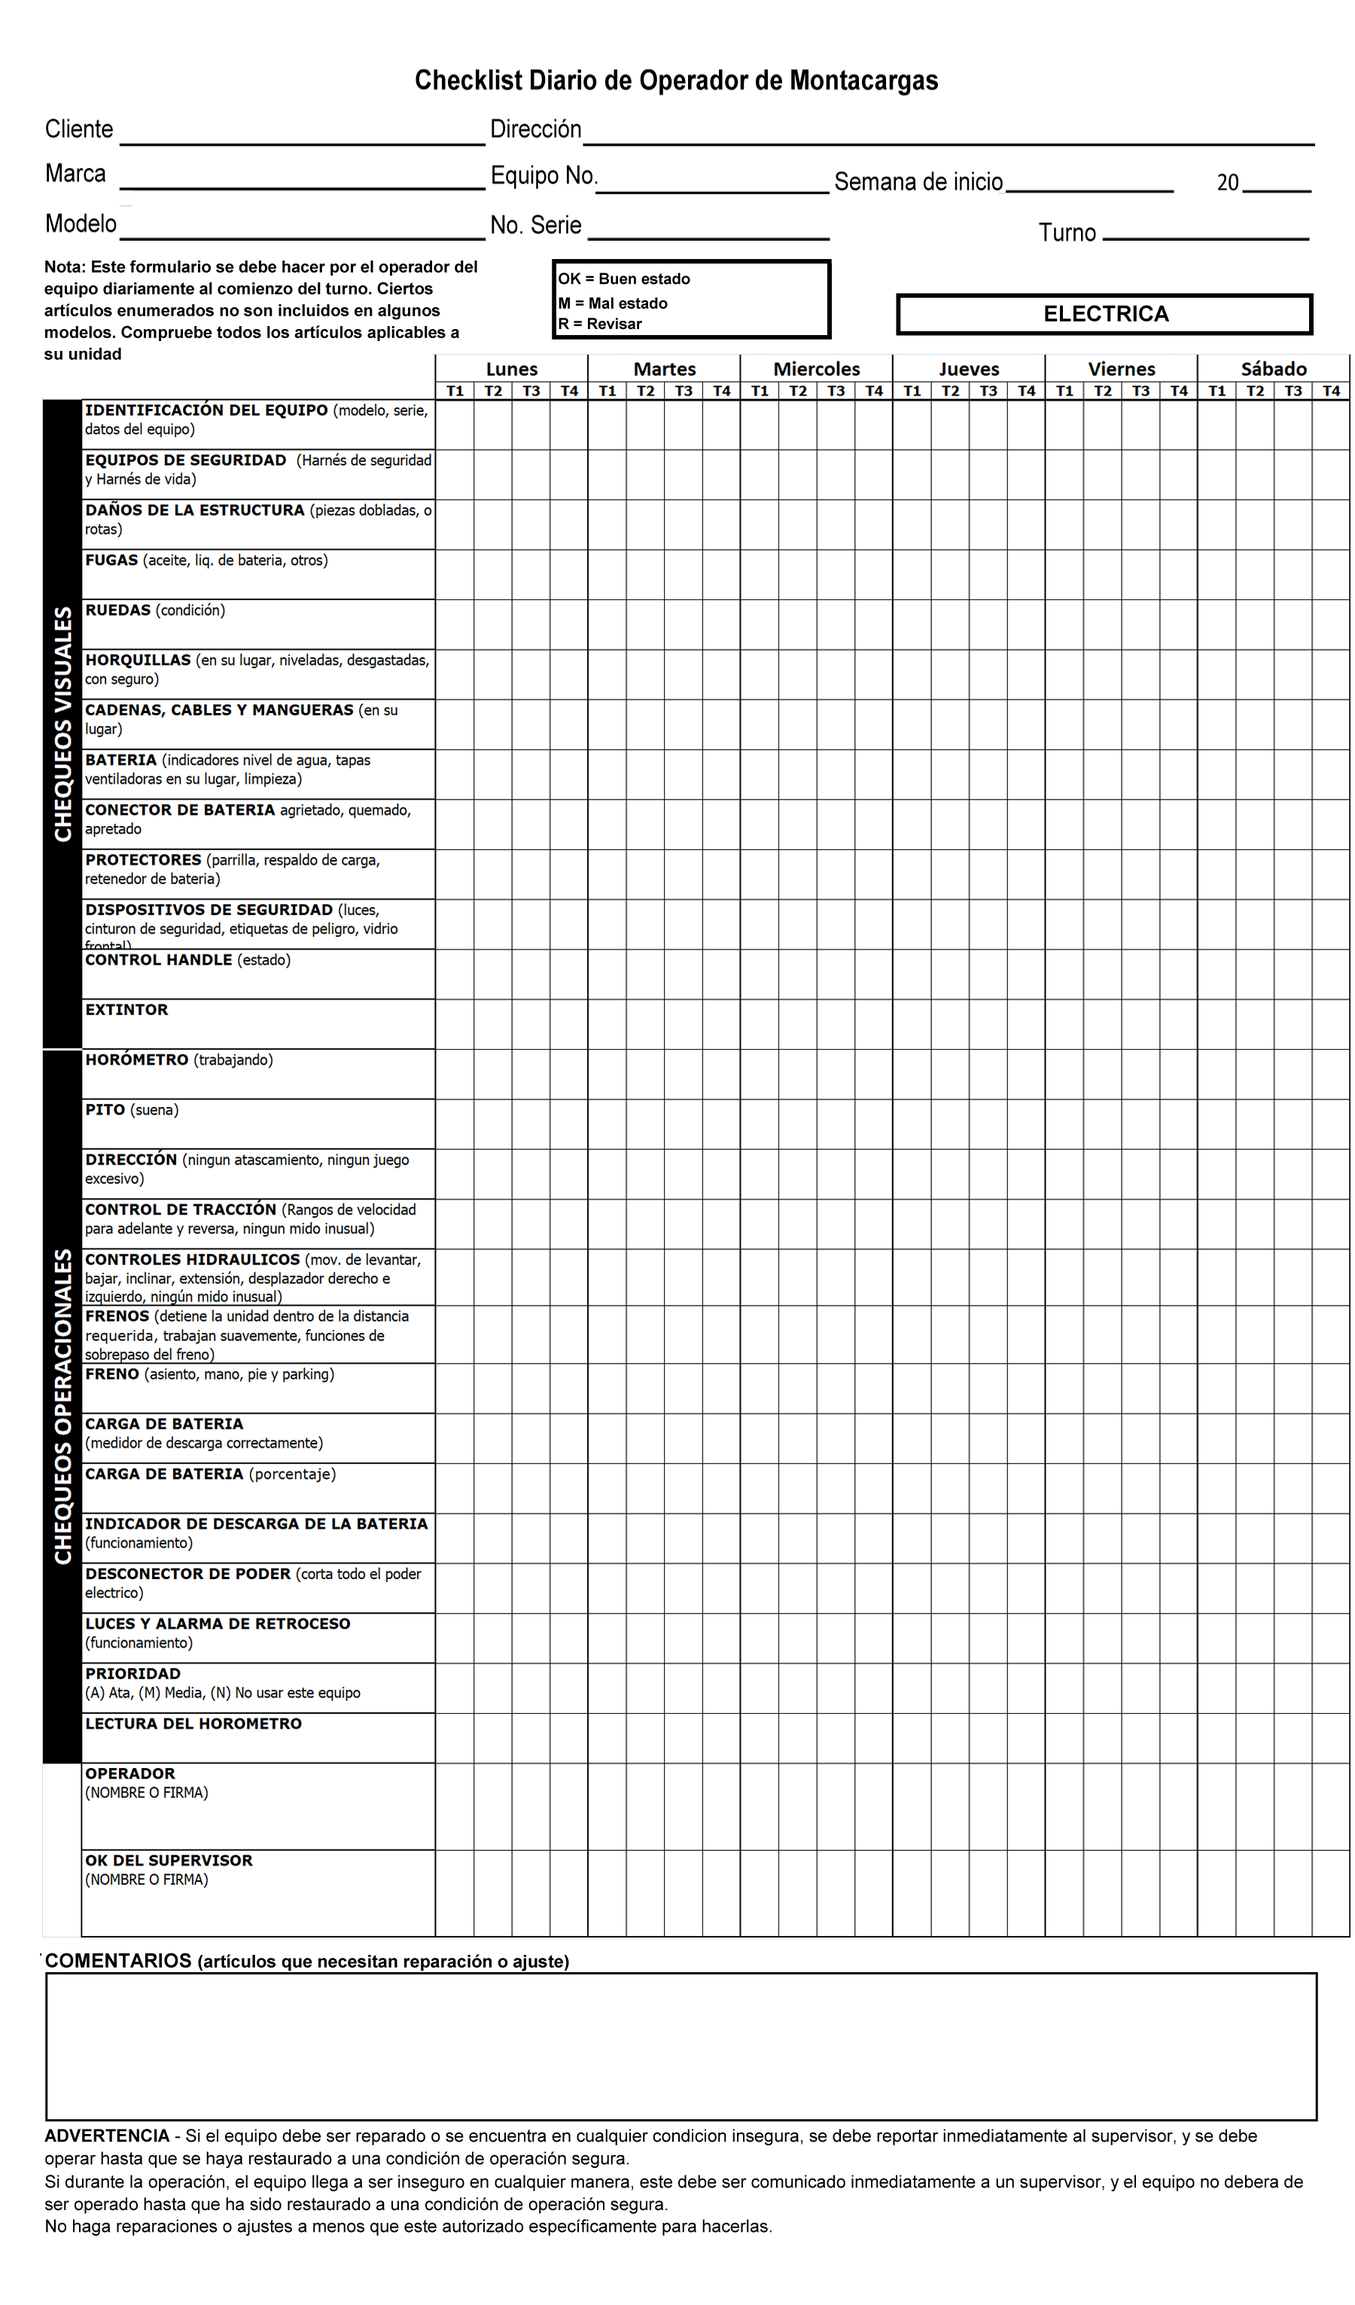
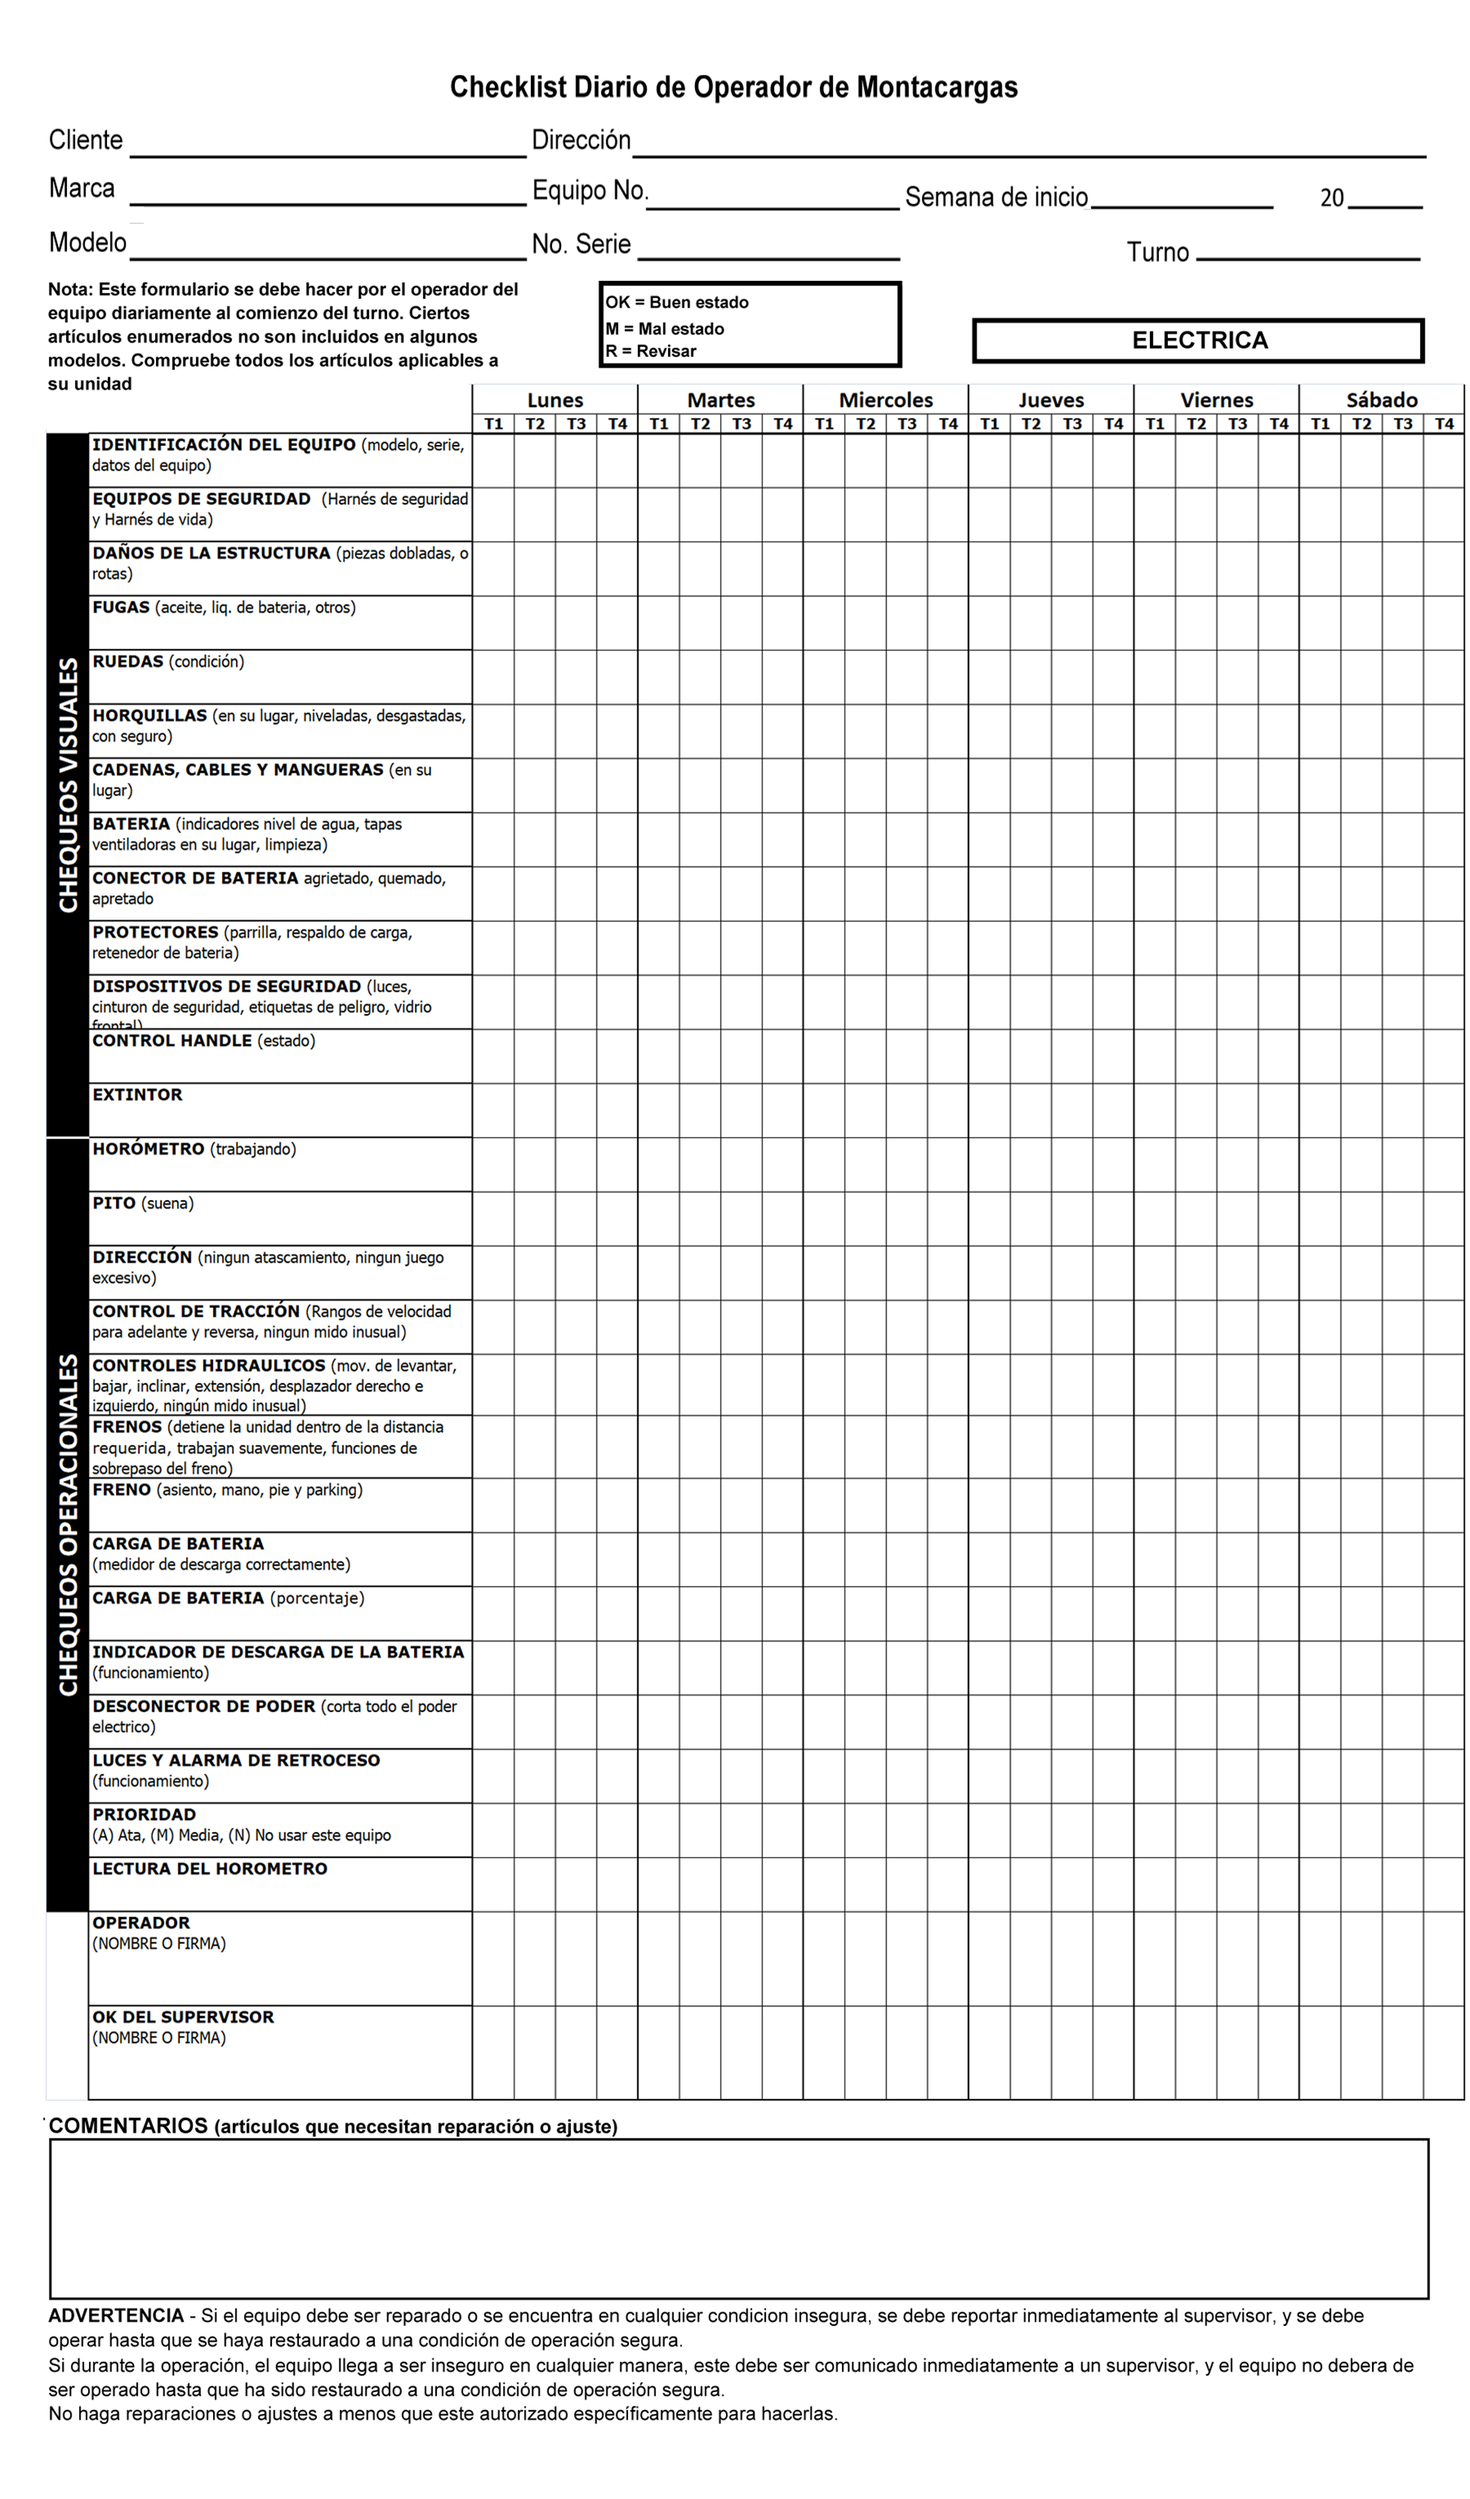
reporte DC

diff --git a/app/FormularioRegistro.php b/app/FormularioRegistro.php
@@ -577,7 +577,11 @@ class FormularioRegistro extends BaseModel
         $pdf->SetXY($x-12, $y-10);
         $pdf->SetLineStyle(['width'=>0,'color'=>[255,255,255]]);
         $pdf->SetLineWidth(0);
-        $pdf->Image(public_path('images/dce6-a.png'),  1, 1, 220, 340, '', '', 'T', false, 300, '', false, false, 1, false, false, false);
+        $pdf->setPrintHeader(false);
+        $pdf->SetPrintFooter(false);
+        $pdf->SetMargins(0, 0, 0);
+        $pdf->SetAutoPageBreak(false, 0);
+        $pdf->Image(public_path('images/dce6-a.png'),  1, 1, 212, 378, '', '', 'T', false, 300, '', false, false, 1, false, false, false);
         $name = 'daily_check-'.$formularioRegistro->id.'.pdf';
         $path = storage_path('app/public/pdf/'.$name);
 
@@ -585,7 +589,7 @@ class FormularioRegistro extends BaseModel
         $pdf->SetTextColor(50, 50, 50);
 
         $x = 20;
-        $y = 15;
+        $y = 19;
         $pdf->SetXY($x, $y);
         $pdf->Cell(55, 6, $formularioRegistro->equipo()->cliente->nombre, 0, 0, 'L');
         $x = $pdf->GetX()+17;
@@ -623,34 +627,34 @@ class FormularioRegistro extends BaseModel
            
         'identificacion'=>54,
         'seguridad'=>62,
-        'danos_estructura'=>68,
-        'fugas'=>76,
-        'ruedas'=>82,
-        'horquillas'=>90,
-        'cadenas_cables_mangueras'=>98,
-        'bateria'=>105,
-        'conector_bateria'=>112,
-        'protectores'=>119,
-        'dispositivos_seguridad'=>126,
-        'control_handle'=>133,
-        'extintor'=>141,
-        'horometro'=>148,
-        'pito'=>156,
-        'direccion'=>162,
-        'control_traccion'=>170,
-        'control_hidraulicos'=>178,
-        'frenos'=>184,
-        'freno'=>192,
-        'carga_bateria'=>200,
-        'nivel_carga_bateria'=>208,
-        'pct_carga_bateria'=>206,
-        'indicador_descarga_bateria'=>212,
-        'desconector_poder'=>220,
-        'luces_alarma_retroceso'=>226,
-        'prioridad'=>234,
-        'lectura_horometro'=>258,
-        'operador'=>270,
-        'ok_supervisor'=>282);
+        'danos_estructura'=>70,
+        'fugas'=>80,
+        'ruedas'=>88,
+        'horquillas'=>96,
+        'cadenas_cables_mangueras'=>104,
+        'bateria'=>112,
+        'conector_bateria'=>120,
+        'protectores'=>128,
+        'dispositivos_seguridad'=>136,
+        'control_handle'=>144,
+        'extintor'=>152,
+        'horometro'=>160,
+        'pito'=>168,
+        'direccion'=>176,
+        'control_traccion'=>186,
+        'control_hidraulicos'=>196,
+        'frenos'=>204,
+        'freno'=>212,
+        'carga_bateria'=>220,
+        'nivel_carga_bateria'=>224,
+        'pct_carga_bateria'=>230,
+        'indicador_descarga_bateria'=>238,
+        'desconector_poder'=>246,
+        'luces_alarma_retroceso'=>254,
+        'prioridad'=>262,
+        'lectura_horometro'=>291,
+        'operador'=>304,
+        'ok_supervisor'=>318);
        $comentarios='';$contador=0;$firmante['operador']=$firmante['ok_supervisor']='';
 
        foreach($data as $d){
@@ -690,7 +694,7 @@ class FormularioRegistro extends BaseModel
                                 $pdf->SetTextColor(254, 0, 0);
                         }
 
-                    $pdf->SetXY($vx,$vars[$datos["nombre"]]+4);
+                    $pdf->SetXY($vx,$vars[$datos["nombre"]]+13);
                     
                     if(in_array($datos["nombre"],['operador','ok_supervisor','lectura_horometro'])){
                         $pdf->StartTransform();
@@ -700,10 +704,11 @@ class FormularioRegistro extends BaseModel
                         $pdf->Rotate(90);
   
                         if($datos["nombre"]=='lectura_horometro'){
+                            $pdf->SetFont('helvetica', 'I', 6);
                             $pdf->Cell(2, 6, $valor, 0, 0, 'L');
                         }else{
-                            $pdf->SetXY($vx,$vars[$datos["nombre"]]-2);
-                            $pdf->Image(storage_path('app/public/firmas/'.$valor),  '', '', 15, 10, '', '', 'T', false, 300, '', false, false, 1, false, false, false);
+                            $pdf->SetXY($vx,$vars[$datos["nombre"]]);
+                            $pdf->Image(storage_path('app/public/firmas/'.$valor),  '', '', 13.5, 5, '', '', 'T', false, 300, '', false, false, 1, false, false, false);
                         }
                         $pdf->StopTransform();
                        
@@ -718,16 +723,16 @@ class FormularioRegistro extends BaseModel
             }
 
        }
-
+     
        $comentarios= explode('||',$comentarios);
        foreach($comentarios as $key=>$c){
-            $pdf->SetXY(10,280+($key*5));
+            $pdf->SetXY(10,322+($key*5));
             $pdf->Cell(200, 10, $c, 0, 0, 'L');
        }
        $pdf->SetFont('helvetica', 'I', $size);
-       $pdf->SetXY(15,250);
+       $pdf->SetXY(15,295);
        $pdf->Cell(200, 10, $firmante['operador'], 0, 0, 'L');
-       $pdf->SetXY(15,263);
+       $pdf->SetXY(15,310);
        $pdf->Cell(200, 10, $firmante['ok_supervisor'], 0, 0, 'L');
 
         $pdf->Output($path, 'F');
